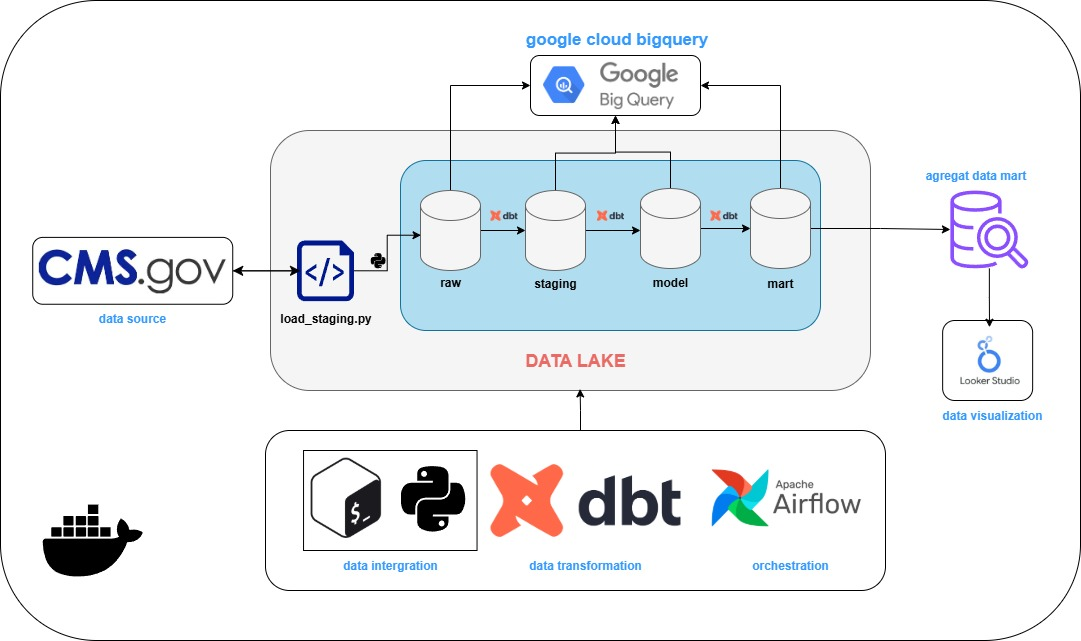
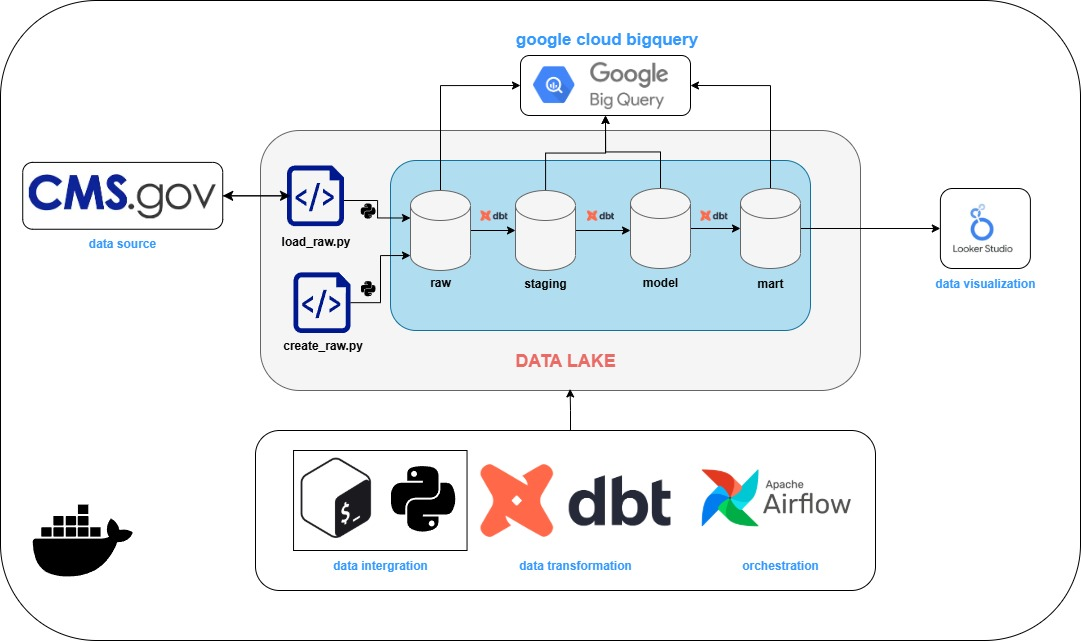
modify: docker setup, dags, Readme

diff --git a/dags/trasformation.py b/dags/trasformation.py
@@ -1,7 +1,9 @@
 from datetime import datetime
-from airflow.sdk import DAG, chain
-from airflow.providers.standard.operators.bash import BashOperator
-from airflow.providers.standard.operators.empty import EmptyOperator
+from airflow import DAG
+from airflow.models.baseoperator import chain
+from airflow.operators.empty import EmptyOperator
+from airflow.operators.bash import BashOperator
+from airflow.utils.trigger_rule import TriggerRule
 from scripts.notification import discord_notification
 
 default_args = {
@@ -28,38 +30,38 @@ with DAG(
         on_success_callback=discord_notification
     )
 
-    # model = BashOperator(
-    #     task_id="create_dataset_model",
-    #     bash_command="dbt run --project-dir /opt/airflow/dbt --profiles-dir /opt/airflow/dbt --select model",
-    #     append_env=True,
-    #     env={
-    #         "GOOGLE_APPLICATION_CREDENTIALS": "/opt/airflow/keys/credentials.json"
-    #     },
-    #     on_failure_callback=discord_notification,
-    #     on_success_callback=discord_notification
-    # )
+    model = BashOperator(
+        task_id="create_dataset_model",
+        bash_command="dbt run --project-dir /opt/airflow/dbt --profiles-dir /opt/airflow/dbt --select model",
+        append_env=True,
+        env={
+            "GOOGLE_APPLICATION_CREDENTIALS": "/opt/airflow/keys/credentials.json"
+        },
+        on_failure_callback=discord_notification,
+        on_success_callback=discord_notification
+    )
 
-    # validasi = BashOperator(
-    #     task_id="validasi_model",
-    #     bash_command="dbt test --project-dir /opt/airflow/dbt --profiles-dir /opt/airflow/dbt --select model",
-    #     append_env=True,
-    #     env={
-    #         "GOOGLE_APPLICATION_CREDENTIALS": "/opt/airflow/keys/credentials.json"
-    #     },
-    #     on_failure_callback=discord_notification,
-    #     on_success_callback=discord_notification
-    # )
+    validasi = BashOperator(
+        task_id="validasi_model",
+        bash_command="dbt test --project-dir /opt/airflow/dbt --profiles-dir /opt/airflow/dbt --select model",
+        append_env=True,
+        env={
+            "GOOGLE_APPLICATION_CREDENTIALS": "/opt/airflow/keys/credentials.json"
+        },
+        on_failure_callback=discord_notification,
+        on_success_callback=discord_notification
+    )
 
-    # marts = BashOperator(
-    #     task_id="create_dataset_marts",
-    #     bash_command="dbt run --project-dir /opt/airflow/dbt --profiles-dir /opt/airflow/dbt --select marts",
-    #     append_env=True,
-    #     env={
-    #         "GOOGLE_APPLICATION_CREDENTIALS": "/opt/airflow/keys/credentials.json"
-    #     },
-    #     on_failure_callback=discord_notification,
-    #     on_success_callback=discord_notification
-    # )
+    marts = BashOperator(
+        task_id="create_dataset_marts",
+        bash_command="dbt run --project-dir /opt/airflow/dbt --profiles-dir /opt/airflow/dbt --select marts",
+        append_env=True,
+        env={
+            "GOOGLE_APPLICATION_CREDENTIALS": "/opt/airflow/keys/credentials.json"
+        },
+        on_failure_callback=discord_notification,
+        on_success_callback=discord_notification
+    )
 
     end = EmptyOperator(task_id="end")
-    chain(start, staging, end)
+    chain(start, staging, model, validasi, marts, end)

diff --git a/dags/extraction.py b/dags/extraction.py
@@ -1,7 +1,9 @@
 from datetime import datetime
-from airflow.sdk import DAG , chain
-from airflow.providers.standard.operators.bash import BashOperator
-from airflow.providers.standard.operators.empty import EmptyOperator
+from airflow import DAG
+from airflow.models.baseoperator import chain
+from airflow.operators.empty import EmptyOperator
+from airflow.operators.bash import BashOperator
+from airflow.operators.trigger_dagrun import TriggerDagRunOperator
 from scripts.notification import discord_notification
 default_args = {
     "owner": "airflow",
@@ -39,4 +41,12 @@ with DAG(
         bash_command = 'sleep 30'
     )
 
-    chain(start, create, load, delay)
+    trigger = TriggerDagRunOperator(
+        task_id="trigger_transformation_dag",
+        trigger_dag_id="jcdeol005_capstone_3_transformation",
+        wait_for_completion=False,
+        on_failure_callback=discord_notification,
+        on_success_callback=discord_notification 
+    )
+
+    chain(start, create, load, delay, trigger)

diff --git a/README.md b/README.md
@@ -1,7 +1,5 @@
 # CMS-Beneficiary2024-pipeline
-
-## Deskripsi
-Proyek ini membangun end-to-end data pipeline untuk mengolah dataset Medicare [Beneficiary 2024](https://github.com/sdg-1/healthcare-claims-analytics-project) dari CMS (Centers for Medicare & Medicaid Services).Pipeline ini memproses data mulai dari Extract → Load → Transform (ELT) dari file CSV ke Google BigQuery, dengan DBT untuk transformasi & pemodelan data,serta Apache Airflow untuk orkestrasi. Hasil akhirnya adalah Data Mart yang siap digunakan untuk analisis, termasuk metrik bulanan, demografi peserta, status kepesertaan, dan indikator cakupan.
+> Proyek ini membangun end-to-end data pipeline untuk mengolah dataset Medicare [Beneficiary 2024](https://github.com/sdg-1/healthcare-claims-analytics-project) dari CMS (Centers for Medicare & Medicaid Services).Pipeline ini memproses data mulai dari Extract → Load → Transform (ELT) dari file CSV ke Google BigQuery, dengan DBT untuk transformasi & pemodelan data,serta Apache Airflow untuk orkestrasi. Hasil akhirnya adalah Data Mart yang siap digunakan untuk analisis, termasuk metrik bulanan, demografi peserta, status kepesertaan, dan indikator cakupan.
 
 ## End-to-End Data Architecture
 ![arsitektur](images/arsitektur.jpg)
@@ -15,7 +13,7 @@ Arsitektur sistem menggunakan:
 Flow:
 `cms.gov → RAW → STAGING → MODEL → MART → Looker Studio`
 
-## Data Model (Star Chema)
+## Data Model (Star Chema) Beneficiary 2024
 ![relasi](images/relasi.jpg)
 
 Struktur Star Schema pada Data Warehouse:
@@ -27,20 +25,33 @@ Struktur Star Schema pada Data Warehouse:
     - `dim_enrollment`: Informasi pendaftaran dan sumber enrollment.
     - `dim_entitlemen`t: Alasan entitlement, ESRD indicator, termination code.
 
-## Airflow Workflow Diagram
-![Dags](images/airflow.jpg)
+## Dags Design
+> menggunakan airflow untuk orchestration pada proyek ini. disini ada 2 dags yang berfungsi antara lain:
+### Data Integration --Python
+![extrcat](images/ektrac.png)
+- Membuat dataset baru di Google BigQuery menggunakan credentials.json melalui script Python.
+- Mengunggah data mentah (raw data) dari CMS.gov ke tabel BigQuery.
+- Menambahkan jeda proses untuk memastikan data berhasil terunggah sepenuhnya.
+- Setelah proses extract selesai, Airflow secara otomatis menjalankan DAG Data Transformation untuk memproses data lebih lanjut.
 
-Diagram ini menunjukkan alur eksekusi pipeline `Apache Airflow`:
-- *START → Download → Create Dataset → Load RAW* menggunakan Python.
-- Setelah data raw di-load, task akan melakukan delay lalu trigger DBT workflow.
-- DBT menjalankan proses *Staging → Modeling → Validasi → Data Mart*.
-- Pemisahan alur Airflow dan DBT membantu memisahkan proses orchestration dan *data transformation*.
+### Data Transformation --DBT
+![transform](images/trans.png)
+- Membuat tabel staging di BigQuery dengan data yang sudah dibersihkan dan distandarisasi.
+-  Membangun data model sesuai kebutuhan analisis, seperti tabel dimensi dan fakta.
+- Melakukan data testing menggunakan DBT untuk memastikan kualitas data sesuai kriteria.
+- Data Mart Membuat data mart siap pakai untuk analisis dan visualisasi.
+
 
 ## Dashboard
 ![profile](images/profile.png)
 
 Visualisasi dashboard menunjukkan distribusi data beneficiary:
 - *Bar Chart*: Distribusi jumlah beneficiary berdasarkan kelompok umur dan gender.
-- *Donut Chart*: Perbandingan gender.
-- *KPI Card*: Menampilkan total beneficiary.
+    - `Toddler` = untuk umur pasien  0 < 5 tahun
+    - `child` = untuk umur pasien antara 5 - 9 tahun
+    - `teenage` = untuk umur pasien antara 10 - 18 tahun
+    - `adult` = untuk umur pasien antara 19 - 60 tahun
+    - `elderly` = untuk pasien 60 tahun ke atas
+- *Donut Chart*: Perbandingan gender pada tahun 2024.
+- *KPI Card*: Menampilkan total beneficiary pada tahun 2024.
 
